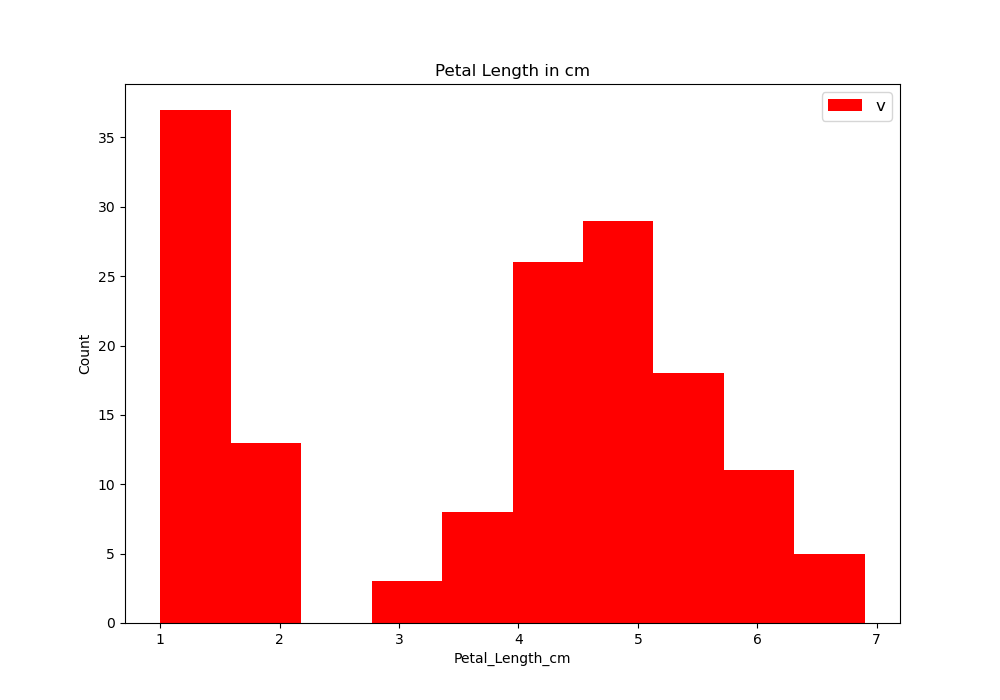
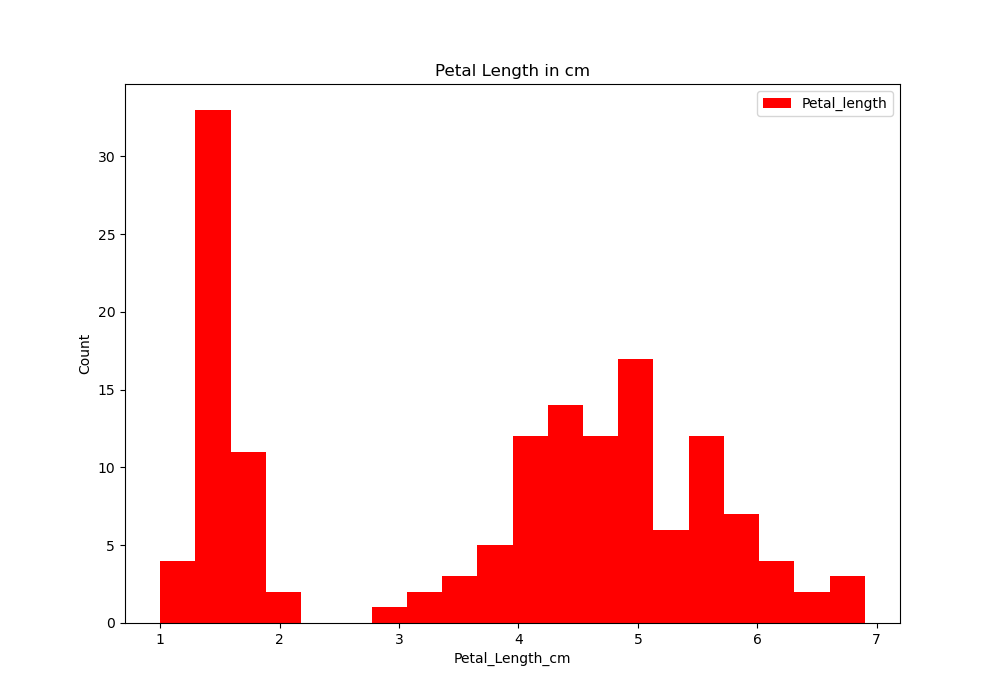
code added to show legend in histograms

diff --git a/analysis.py b/analysis.py
@@ -2,6 +2,8 @@ import numpy as np
 import pandas as pd
 import matplotlib.pyplot as plt
 #https://www.w3schools.com/python/pandas/ref_df_describe.asp
+#histograms & box plots @ https://www.geeksforgeeks.org/box-plot-and-histogram-exploration-on-iris-data/
+#adding legend https://www.geeksforgeeks.org/matplotlib-pyplot-legend-in-python/
 import seaborn as sns
 import sys
 #import csv
@@ -41,13 +43,13 @@ sys.stdout.close()
 
 plt.figure(figsize = (10, 7))
 x = iris.sepal_length
-plt.hist(x, color = "blue")
+plt.hist(x, bins=20,color = "blue")
 plt.title("Sepal Length in cm")
 plt.xlabel("Sepal Length cm")
 plt.ylabel("Count")
-plt.legend("sepal_lenght")
+plt.legend(['sepal_lenght'])
 plt.savefig('sepal_lenght_histogram.png')
-#plt.show() 
+plt.show() 
 
 
 #Histogram for Sepal Width
@@ -56,11 +58,11 @@ plt.savefig('sepal_lenght_histogram.png')
 
 plt.figure(figsize = (10, 7))
 x = iris.sepal_width
-plt.hist(x,color = "green")
+plt.hist(x,bins=20,color = "green")
 plt.title("Sepal Width in cm")
 plt.xlabel("Sepal_Width_cm")
 plt.ylabel("Count")
-plt.legend("Sepal Width")
+plt.legend(['Sepal_Width'])
 plt.savefig('sepal_width_histogram.png')
 plt.show() 
 
@@ -70,13 +72,13 @@ plt.show()
 
 plt.figure(figsize = (10, 7))
 x = iris.petal_length
-plt.hist(x,color = "red")
+plt.hist(x,bins=20,color = "red")
 plt.title("Petal Length in cm")
 plt.xlabel("Petal_Length_cm")
 plt.ylabel("Count")
-plt.legend("vv",prop={'size': 12})
+plt.legend(['Petal_length'])
 plt.savefig('petal_length_hist.png')
-#plt.show() 
+plt.show() 
 
 
 #Histogram for Petal Width
@@ -84,11 +86,11 @@ plt.savefig('petal_length_hist.png')
 
 plt.figure(figsize = (10, 7))
 #x = iris.petal_width
-plt.hist(x= iris.petal_width, color = "yellow")
+plt.hist(x, bins=20, color = "yellow")
 plt.title("Petal Width in cm")
 plt.xlabel("Petal_Width_cm")
 plt.ylabel("Count")
-plt.legend("Petal Width")
+plt.legend(['Petal_Width'])
 plt.savefig('petal_width_histogram.png')
 plt.show() 
 
@@ -104,10 +106,8 @@ plt.show()
 
 
 
-'''
+
 #https://medium.com/@avulurivenkatasaireddy/exploratory-data-analysis-of-iris-data-set-using-python-823e54110d2d
 iris_setosa=iris.loc[iris["type"]=="Iris-setosa"]
 iris_virginica=iris.loc[iris["type"]=="Iris-virginica"]
 iris_versicolor=iris.loc[iris["type"]=="Iris-versicolor"]
-
-'''
